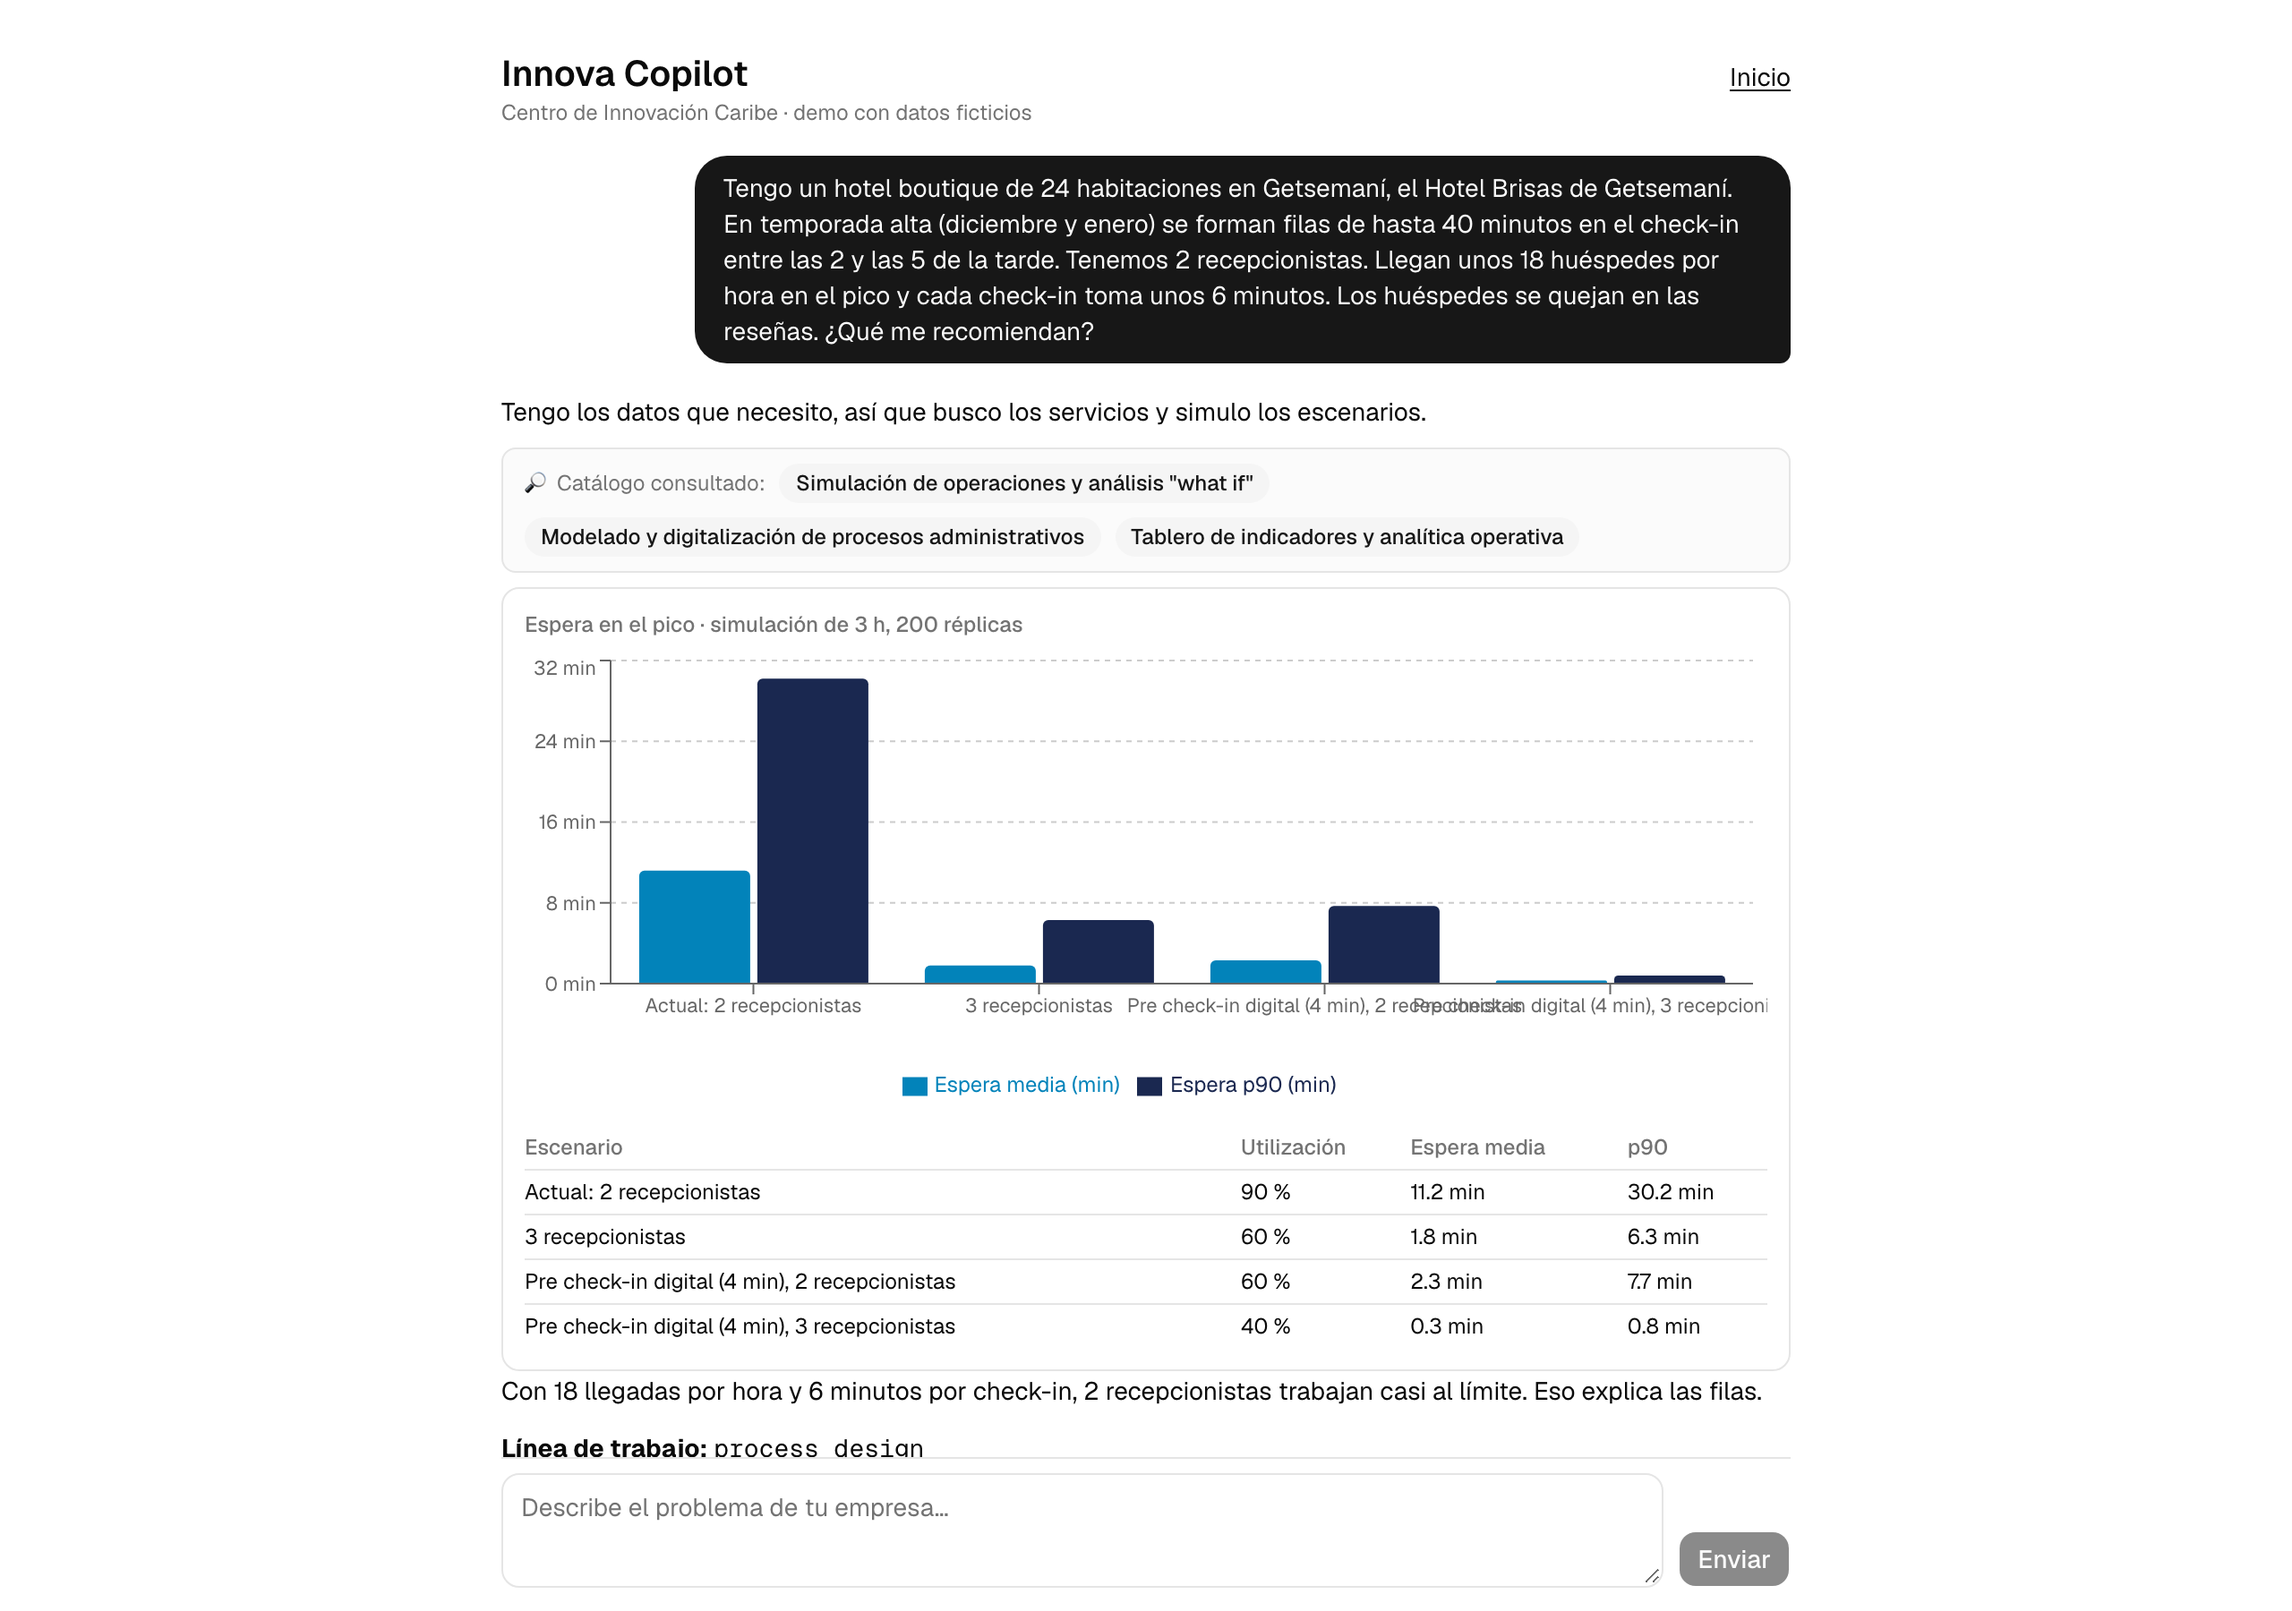
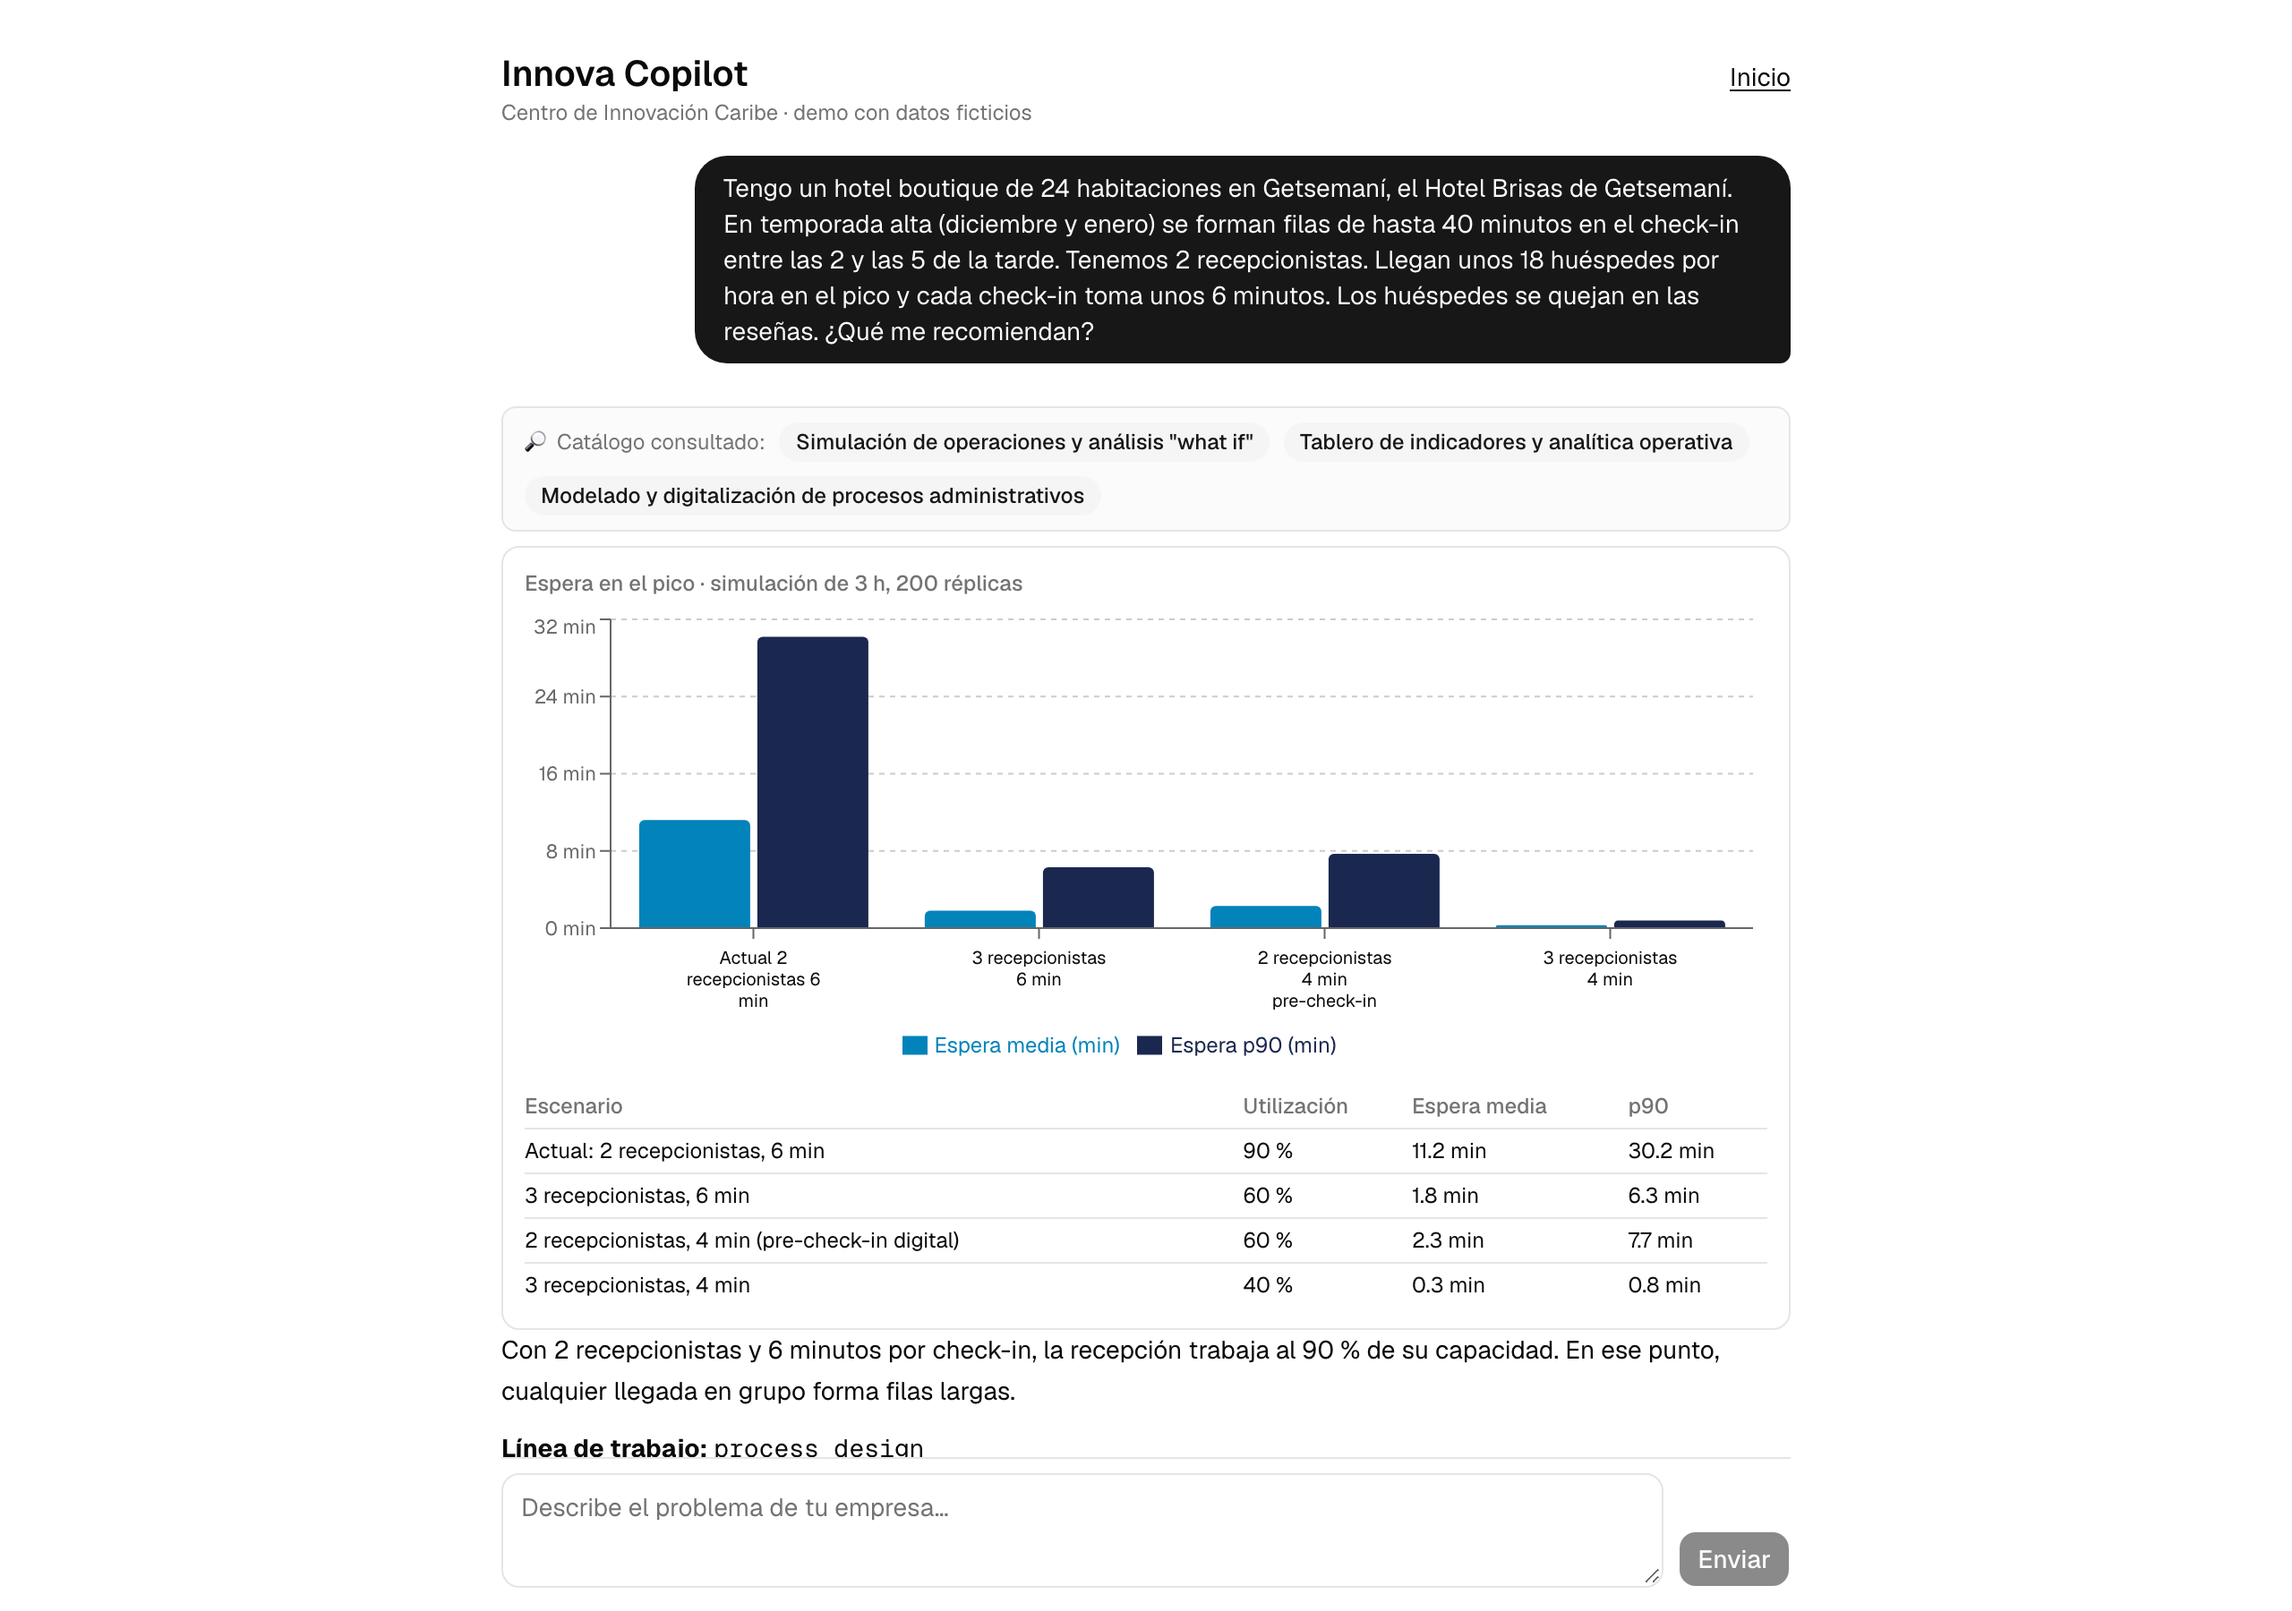
docs: refresh production screenshots (wrapped chart labels) and record per-tag verification

Changed region(s): [[0.2188, 0.4978, 0.7812, 0.8711], [0.2188, 0.2489, 0.75, 0.4356]]

diff --git a/docs/evidencia/verificacion-tags.md b/docs/evidencia/verificacion-tags.md
@@ -1,0 +1,17 @@
+# Verificación de los 11 tags (2026-09-29)
+
+Cada tag se sacó en un `git worktree` limpio: `pnpm install --frozen-lockfile`, `pnpm typecheck`, `pnpm test` y `pnpm build`.
+
+```
+paso-00-dar-forma: docs only (no app) OK
+paso-01-entorno-agente: docs only (no app) OK
+paso-02-arquitectura-datos: typecheck=ok tests=[Tests  5 passed (5)] build=ok
+paso-03-primer-llm: typecheck=ok tests=[Tests  5 passed (5)] build=ok
+paso-04-evals: typecheck=ok tests=[Tests  33 passed (33)] build=ok
+paso-05-rag: typecheck=ok tests=[Tests  35 passed (35)] build=ok
+paso-06-agente: typecheck=ok tests=[Tests  52 passed (52)] build=ok
+paso-07-ml-clasico: typecheck=ok tests=[Tests  52 passed (52)] build=ok
+paso-08-producto-completo: typecheck=ok tests=[Tests  65 passed (65)] build=ok
+paso-09-produccion: typecheck=ok tests=[Tests  65 passed (65)] build=ok
+paso-10-cierre: typecheck=ok tests=[Tests  65 passed (65)] build=ok
+```
